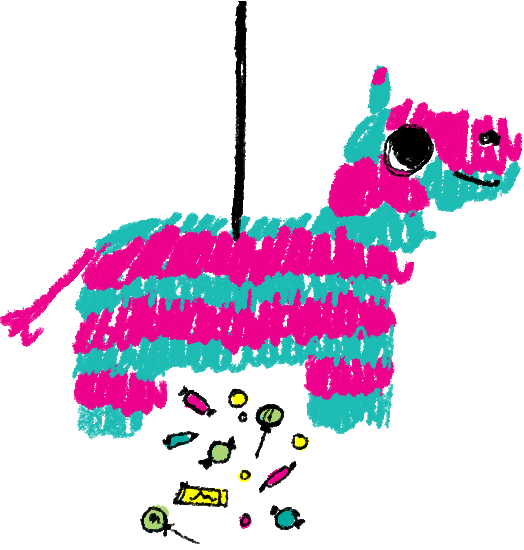
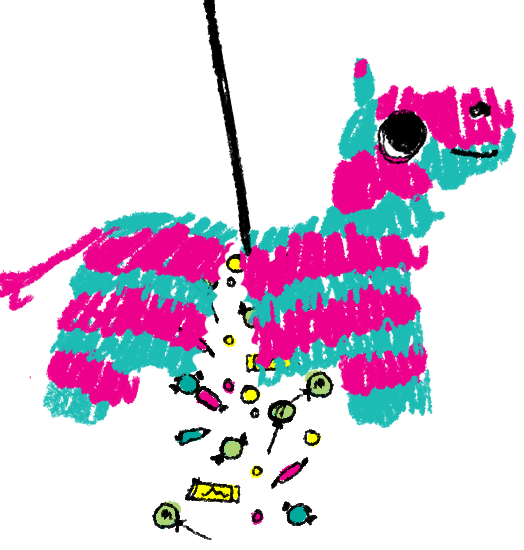
added pinata click

Changed region(s): [[0.0, 0.0, 1.0, 0.9891]]

diff --git a/src/party.js b/src/party.js
@@ -38,10 +38,8 @@ if(profile.hat) {
 
 otherCreatureHatImage.src = hatInventory[3];
 
-function pinataSwap() {
-    const pinata1 = '../assets/pinata.png';
-    const pinata2 = '../assets/pinata-click.png';
-    pinataImg.src = (pinataImg.src === pinata1) ? pinata2 : pinata1;
-}
 
-pinataImg.addEventListener('click', pinataSwap);
+
+pinataImg.addEventListener('click', function () {
+    pinataImg.classList.add('pinata-click');
+});

diff --git a/style/party.css b/style/party.css
@@ -26,10 +26,11 @@ h2 {
     transition: .20s;
 }
 
-#pinata:hover {
+.pinata-click {
     transition: .20s;
-    transform: rotate(0.05turn)
+    content: url(../assets/pinata-click.png);
 }
+
 
 #creatures {
     display:flex;
